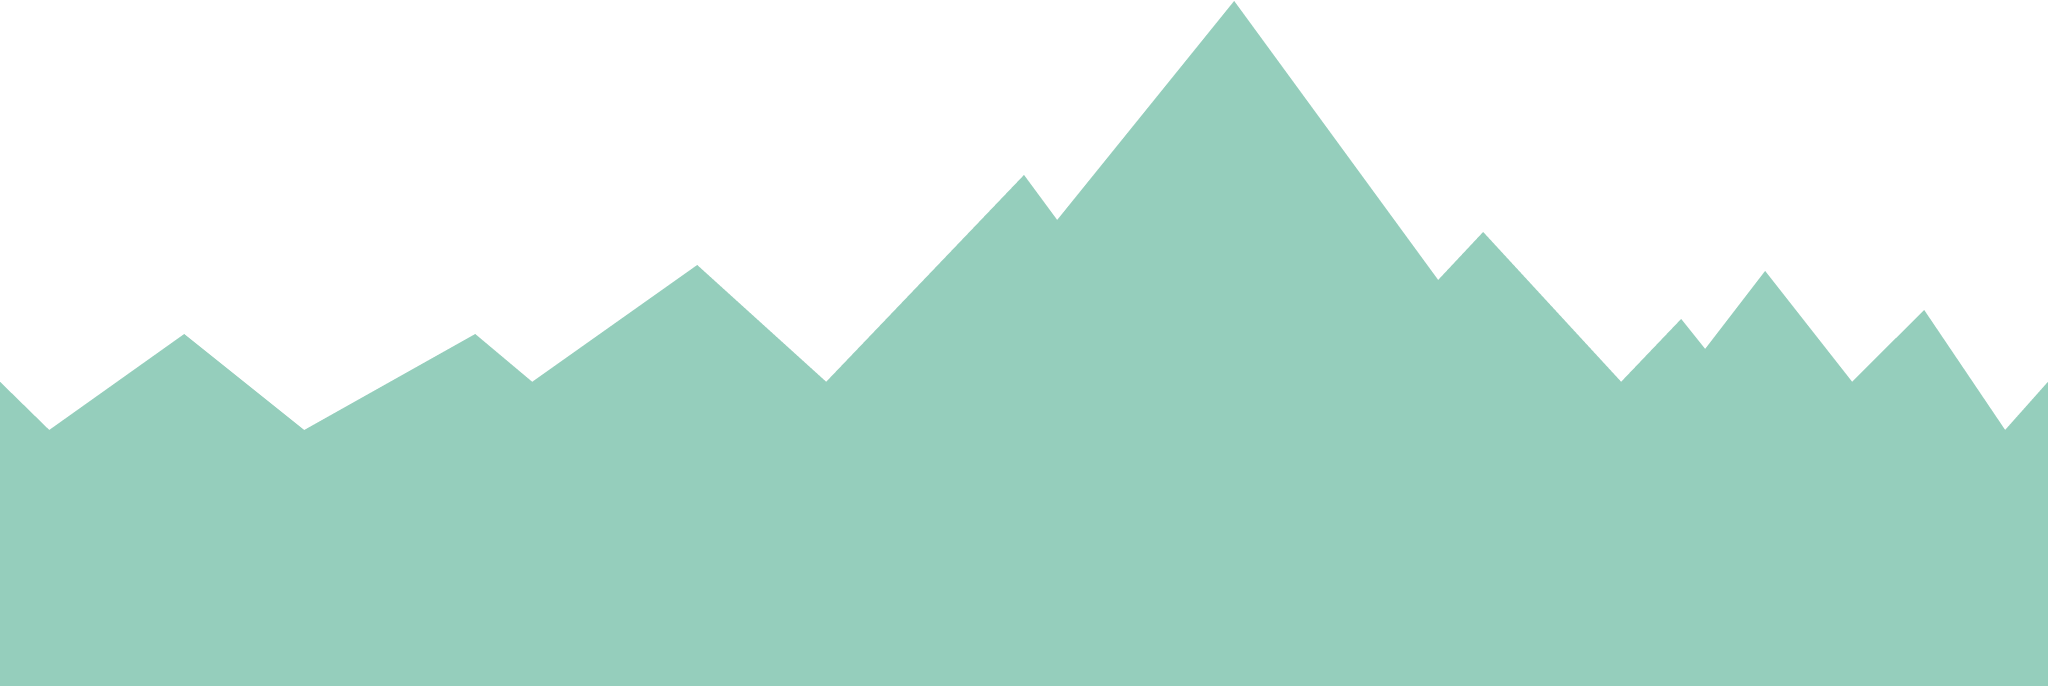
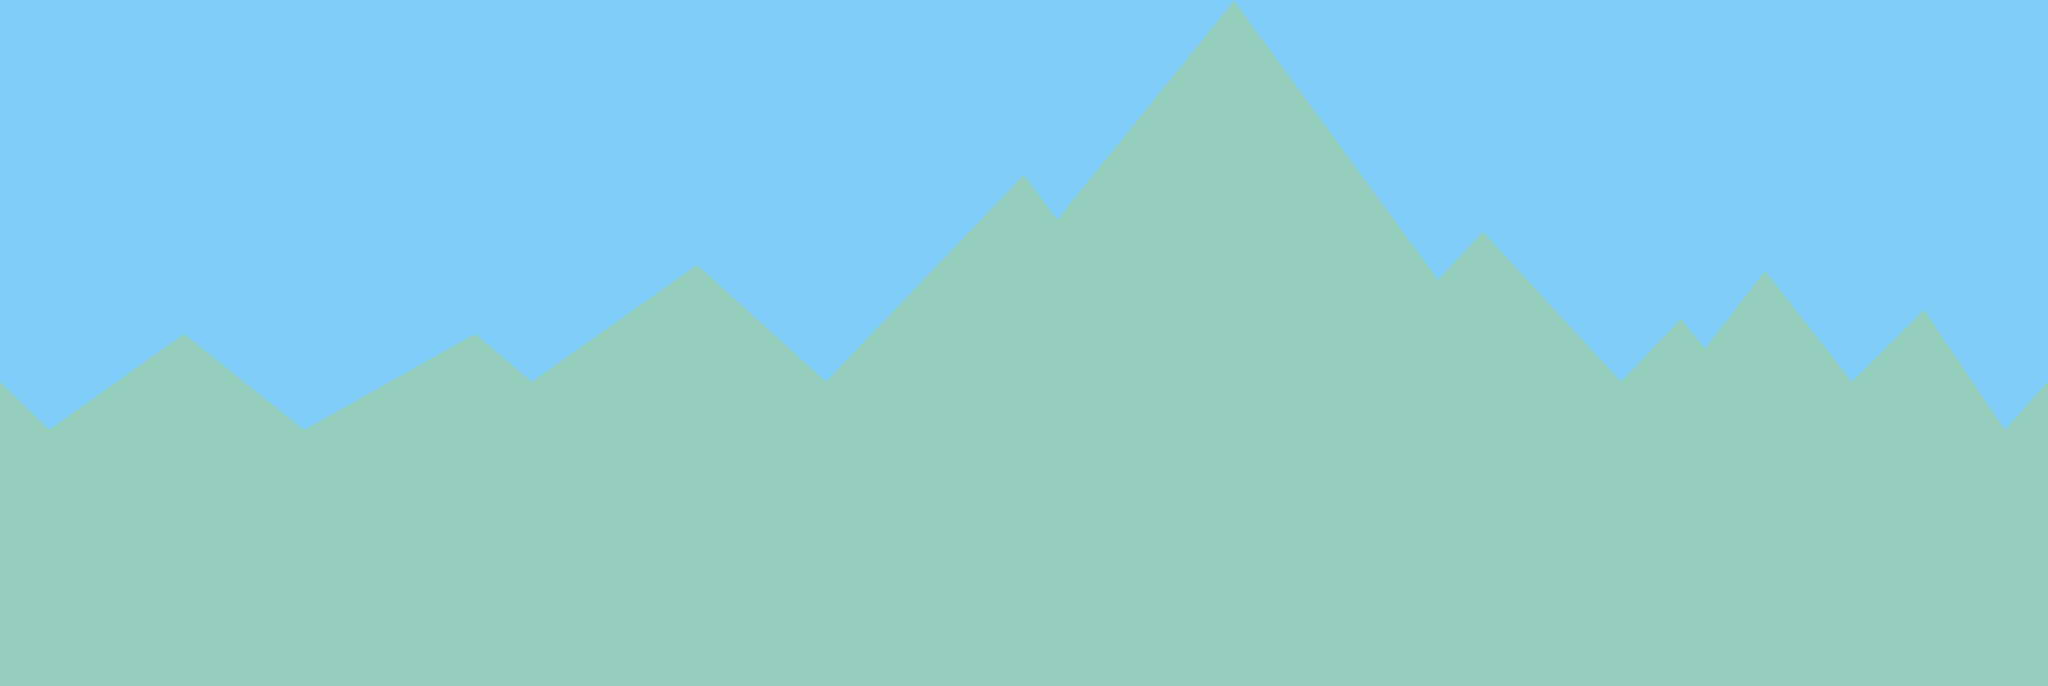
Fix the colors in the menus with the new bright backgrounds

diff --git a/samples/luola/menu/textInput.hpp b/samples/luola/menu/textInput.hpp
@@ -29,10 +29,10 @@ public:
         text.setColor({ 0, 0, 0, 1 });
         background = Shape::rectangle({ 0, 0 }, { 200, (float)size + 2 });
 
-        colors[Off] = { 0.5f, 0.5f, 0.5f, 1.0f };
-        colors[Active] = { 0.7f, 0.7f, 0.7f, 1.0f };
+        colors[Off] = { 0.8f, 0.8f, 0.8f, 0.4f };
+        colors[Active] = { 0.9f, 0.9f, 0.9f, 1.0f };
         colors[Over] = { 1.0f, 1.0f, 1.0f, 1.0f };
-        colors[Down] = { 0.3f, 0.3f, 0.3f, 1.0f };
+        colors[Down] = { 0.7f, 0.7f, 0.7f, 1.0f };
         colors[ActiveAndOut] = colors[Active];
         colors[DownAndOut] = colors[Off];
 

diff --git a/samples/luola/menu/panel.hpp b/samples/luola/menu/panel.hpp
@@ -28,7 +28,7 @@ public:
         shader = global.cache.get<Shader>("shader");
         background = Shape::rectangle(Vec2f(), { (float)global.width - position.x - 50,
                                                  (float)global.height - position.y - 50 });
-        color = { 0.03f, 0.03f, 0.03f, 1.0f };
+        color = { 0, 0, 0, 0.1f };
         title = Text(global.cache.get<Font>("font"), shader,
                      { 20, 20 }, heading, 30);
 

diff --git a/samples/luola/menu/button.hpp b/samples/luola/menu/button.hpp
@@ -18,8 +18,8 @@ public:
                      position,
                      text, size);
 
-        colors[Down] = { 0.5f, 0.5f, 0.5f, 1.0f };
-        colors[Up] = { 0.7f, 0.7f, 0.7f, 1.0f };
+        colors[Down] = { 0.8f, 0.8f, 0.8f, 1.0f };
+        colors[Up] = { 0.9f, 0.9f, 0.9f, 1.0f };
         colors[Over] = { 1.0f, 1.0f, 1.0f, 1.0f };
         colors[DownAndOut] = colors[Up];
     }

diff --git a/samples/luola/todo.md b/samples/luola/todo.md
@@ -3,7 +3,7 @@ Remove the elements from this list as they are implemented.
 
 ## Things that need doing
 
-- User Interface - In Progress
+- User Interface
   
   The main menu has been implemented. Now The options page needs to be filled out. This would also mean saving the game options to a file, probably a JSON file. The join and host pages have player names and remote address entry. The host page should have game options as they become available and the join page should get some form of server memory or lists.
 
